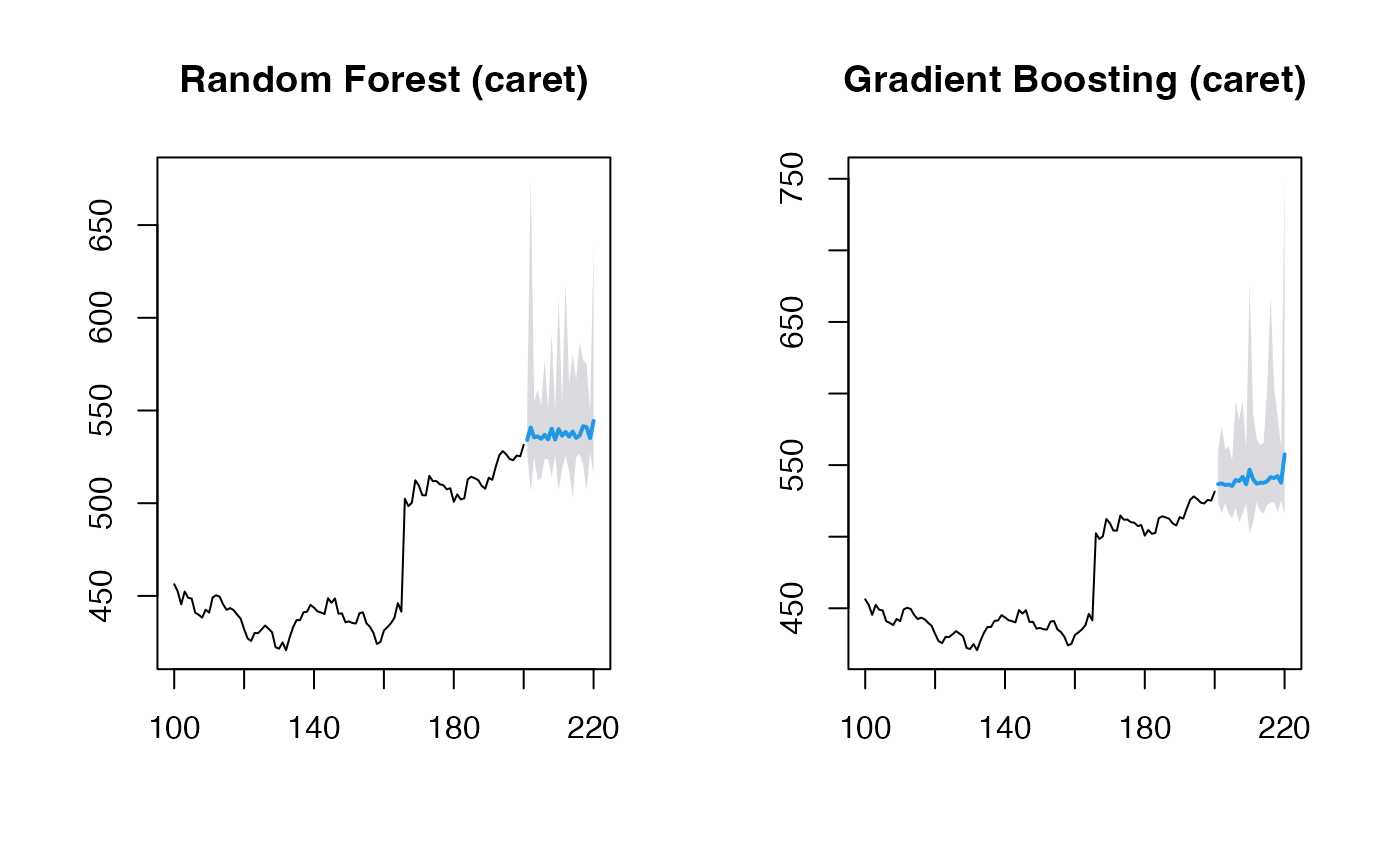
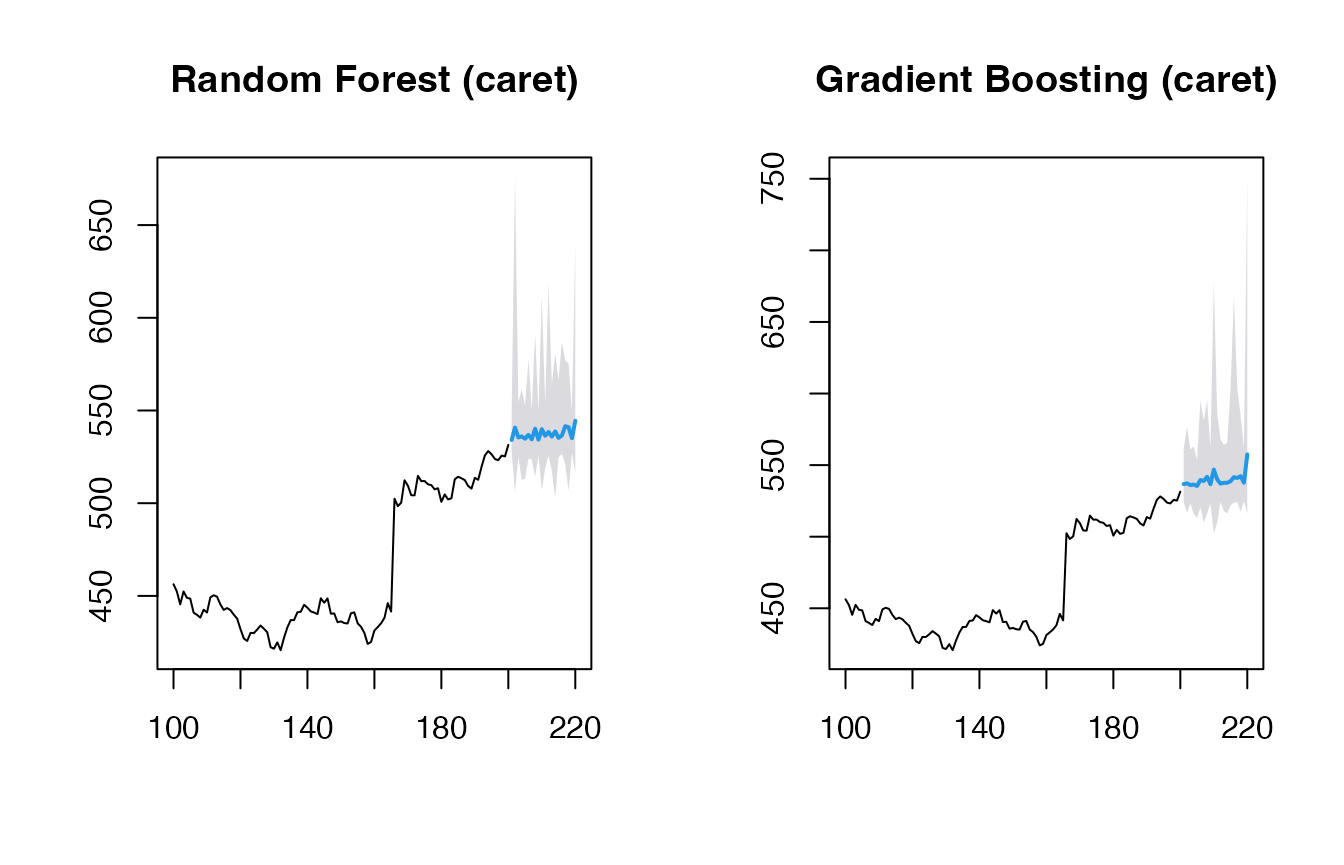
update docs for mlarch -- explicit volatility clustering

diff --git a/ahead/articles/mlarch.html b/ahead/articles/mlarch.html
@@ -382,14 +382,66 @@ how to use them:</p>
 <span><span class="co">## 218       542.2963 517.5191 584.6708</span></span>
 <span><span class="co">## 219       537.7170 524.9537 562.6072</span></span>
 <span><span class="co">## 220       557.4956 515.8869 751.6655</span></span></code></pre>
-<p>Visualizing the forecasts:</p>
 <div class="sourceCode" id="cb15"><pre class="downlit sourceCode r">
+<code class="sourceCode R"><span><span class="co"># Gradient Boosting via caret and using clustering explicitly</span></span>
+<span><span class="op">(</span><span class="va">obj_glmboost2</span> <span class="op">&lt;-</span> <span class="fu">ahead</span><span class="fu">::</span><span class="fu"><a href="../reference/mlarchf.html">mlarchf</a></span><span class="op">(</span><span class="va">y</span>, ml_method<span class="op">=</span><span class="st">"glmboost"</span>, n_clusters<span class="op">=</span><span class="fl">2</span>, h<span class="op">=</span><span class="fl">20L</span><span class="op">)</span><span class="op">)</span></span></code></pre></div>
+<pre><code><span><span class="co">##     Point Forecast    Lo 95    Hi 95</span></span>
+<span><span class="co">## 201       536.9225 523.7163 562.2036</span></span>
+<span><span class="co">## 202       536.9471 517.1959 574.5499</span></span>
+<span><span class="co">## 203       536.2966 522.8488 562.4996</span></span>
+<span><span class="co">## 204       536.0937 516.9778 561.0505</span></span>
+<span><span class="co">## 205       535.6889 512.0026 554.6241</span></span>
+<span><span class="co">## 206       539.7174 520.3196 595.8779</span></span>
+<span><span class="co">## 207       539.2603 508.8961 583.6796</span></span>
+<span><span class="co">## 208       542.2021 515.5027 597.6522</span></span>
+<span><span class="co">## 209       536.8476 522.7240 562.9377</span></span>
+<span><span class="co">## 210       547.4995 500.9878 684.2028</span></span>
+<span><span class="co">## 211       540.4050 508.7910 588.8942</span></span>
+<span><span class="co">## 212       537.2980 523.9303 569.8259</span></span>
+<span><span class="co">## 213       537.9292 517.2455 565.5631</span></span>
+<span><span class="co">## 214       537.8840 515.6418 566.9770</span></span>
+<span><span class="co">## 215       539.0610 521.4258 605.9054</span></span>
+<span><span class="co">## 216       541.9962 523.4437 673.8011</span></span>
+<span><span class="co">## 217       541.4234 523.6455 606.9050</span></span>
+<span><span class="co">## 218       542.7548 516.9205 586.9355</span></span>
+<span><span class="co">## 219       537.9815 524.6718 563.9312</span></span>
+<span><span class="co">## 220       558.6009 515.2182 761.0361</span></span></code></pre>
+<div class="sourceCode" id="cb17"><pre class="downlit sourceCode r">
+<code class="sourceCode R"><span><span class="op">(</span><span class="va">obj_glmboost3</span> <span class="op">&lt;-</span> <span class="fu">ahead</span><span class="fu">::</span><span class="fu"><a href="../reference/mlarchf.html">mlarchf</a></span><span class="op">(</span><span class="va">y</span>, ml_method<span class="op">=</span><span class="st">"glmboost"</span>, n_clusters<span class="op">=</span><span class="fl">3</span>, h<span class="op">=</span><span class="fl">20L</span><span class="op">)</span><span class="op">)</span></span></code></pre></div>
+<pre><code><span><span class="co">##     Point Forecast    Lo 95    Hi 95</span></span>
+<span><span class="co">## 201       538.3365 521.7044 570.2428</span></span>
+<span><span class="co">## 202       537.3762 516.0485 577.9330</span></span>
+<span><span class="co">## 203       537.8459 520.0787 572.4882</span></span>
+<span><span class="co">## 204       536.2631 516.4572 562.1442</span></span>
+<span><span class="co">## 205       535.7876 511.5420 555.1489</span></span>
+<span><span class="co">## 206       539.4364 520.7182 593.7978</span></span>
+<span><span class="co">## 207       539.0040 509.6248 581.9638</span></span>
+<span><span class="co">## 208       541.6988 516.2605 594.6405</span></span>
+<span><span class="co">## 209       536.6059 523.1270 561.5101</span></span>
+<span><span class="co">## 210       546.7133 502.4584 676.5969</span></span>
+<span><span class="co">## 211       539.9740 509.8880 585.9456</span></span>
+<span><span class="co">## 212       537.0145 524.2773 567.9559</span></span>
+<span><span class="co">## 213       537.6154 517.9373 563.9057</span></span>
+<span><span class="co">## 214       537.5711 516.4084 565.2712</span></span>
+<span><span class="co">## 215       538.6930 521.9114 602.2429</span></span>
+<span><span class="co">## 216       541.4844 523.8324 666.8058</span></span>
+<span><span class="co">## 217       540.9307 524.0397 602.9741</span></span>
+<span><span class="co">## 218       542.2033 517.6247 584.2236</span></span>
+<span><span class="co">## 219       537.6651 525.0132 562.3637</span></span>
+<span><span class="co">## 220       557.2735 516.0045 750.0552</span></span></code></pre>
+<p>Visualizing the forecasts:</p>
+<div class="sourceCode" id="cb19"><pre class="downlit sourceCode r">
 <code class="sourceCode R"><span><span class="fu"><a href="https://rdrr.io/r/graphics/par.html" class="external-link">par</a></span><span class="op">(</span>mfrow<span class="op">=</span><span class="fu"><a href="https://rdrr.io/r/base/c.html" class="external-link">c</a></span><span class="op">(</span><span class="fl">1</span>, <span class="fl">2</span><span class="op">)</span><span class="op">)</span></span>
 <span><span class="fu"><a href="https://rdrr.io/r/graphics/plot.default.html" class="external-link">plot</a></span><span class="op">(</span><span class="va">obj_rf</span>, main<span class="op">=</span><span class="st">"Random Forest (caret)"</span><span class="op">)</span></span>
 <span><span class="fu"><a href="https://rdrr.io/r/graphics/plot.default.html" class="external-link">plot</a></span><span class="op">(</span><span class="va">obj_glmboost</span>, main<span class="op">=</span><span class="st">"Gradient Boosting (caret)"</span><span class="op">)</span></span></code></pre></div>
-<p><img src="mlarch_files/figure-html/plot_caret-1.png" width="691.2"></p>
+<p><img src="mlarch_files/figure-html/plot_caret-1.png" width="672"></p>
+<div class="sourceCode" id="cb20"><pre class="downlit sourceCode r">
+<code class="sourceCode R"><span><span class="fu"><a href="https://rdrr.io/r/graphics/par.html" class="external-link">par</a></span><span class="op">(</span>mfrow<span class="op">=</span><span class="fu"><a href="https://rdrr.io/r/base/c.html" class="external-link">c</a></span><span class="op">(</span><span class="fl">1</span>, <span class="fl">2</span><span class="op">)</span><span class="op">)</span></span>
+<span><span class="fu"><a href="https://rdrr.io/r/graphics/plot.default.html" class="external-link">plot</a></span><span class="op">(</span><span class="va">obj_glmboost2</span>, main<span class="op">=</span><span class="st">"Gradient Boosting (caret) \n 2 clusters"</span><span class="op">)</span></span>
+<span><span class="fu"><a href="https://rdrr.io/r/graphics/plot.default.html" class="external-link">plot</a></span><span class="op">(</span><span class="va">obj_glmboost3</span>, main<span class="op">=</span><span class="st">"Gradient Boosting (caret) \n 3 clusters"</span><span class="op">)</span></span></code></pre></div>
+<p><img src="mlarch_files/figure-html/plot_caret-2.png" width="672"></p>
 <p>Looking at the simulation paths:</p>
-<div class="sourceCode" id="cb16"><pre class="downlit sourceCode r">
+<div class="sourceCode" id="cb21"><pre class="downlit sourceCode r">
 <code class="sourceCode R"><span><span class="fu"><a href="https://rdrr.io/r/graphics/par.html" class="external-link">par</a></span><span class="op">(</span>mfrow<span class="op">=</span><span class="fu"><a href="https://rdrr.io/r/base/c.html" class="external-link">c</a></span><span class="op">(</span><span class="fl">1</span>, <span class="fl">2</span><span class="op">)</span><span class="op">)</span></span>
 <span><span class="fu"><a href="https://rdrr.io/r/graphics/matplot.html" class="external-link">matplot</a></span><span class="op">(</span><span class="va">obj_rf</span><span class="op">$</span><span class="va">sims</span>, type<span class="op">=</span><span class="st">'l'</span>, main<span class="op">=</span><span class="st">"RF Simulation Paths"</span><span class="op">)</span></span>
 <span><span class="fu"><a href="https://rdrr.io/r/graphics/matplot.html" class="external-link">matplot</a></span><span class="op">(</span><span class="va">obj_glmboost</span><span class="op">$</span><span class="va">sims</span>, type<span class="op">=</span><span class="st">'l'</span>, main<span class="op">=</span><span class="st">"GBM Simulation Paths"</span><span class="op">)</span></span></code></pre></div>
@@ -400,7 +452,7 @@ how to use them:</p>
 </h2>
 <p>You can also customize both the mean forecasting model and the model
 for forecasting standardized residuals:</p>
-<div class="sourceCode" id="cb17"><pre class="downlit sourceCode r">
+<div class="sourceCode" id="cb22"><pre class="downlit sourceCode r">
 <code class="sourceCode R"><span><span class="co"># Using RW + Theta method for mean and residuals along with SVM for volatility</span></span>
 <span><span class="op">(</span><span class="va">obj_svm</span> <span class="op">&lt;-</span> <span class="fu">ahead</span><span class="fu">::</span><span class="fu"><a href="../reference/mlarchf.html">mlarchf</a></span><span class="op">(</span><span class="va">y</span>, fit_func <span class="op">=</span> <span class="fu">e1071</span><span class="fu">::</span><span class="va"><a href="https://rdrr.io/pkg/e1071/man/svm.html" class="external-link">svm</a></span>, </span>
 <span>                     predict_func <span class="op">=</span> <span class="va">predict</span>, h<span class="op">=</span><span class="fl">20L</span>, </span>
@@ -427,7 +479,7 @@ for forecasting standardized residuals:</p>
 <span><span class="co">## 218       543.2392 516.3275 589.2513</span></span>
 <span><span class="co">## 219       538.2161 524.4095 565.0870</span></span>
 <span><span class="co">## 220       559.7157 514.5775 769.9032</span></span></code></pre>
-<div class="sourceCode" id="cb19"><pre class="downlit sourceCode r">
+<div class="sourceCode" id="cb24"><pre class="downlit sourceCode r">
 <code class="sourceCode R"><span><span class="co"># Using Theta + Theta method for mean and residuals along with GLMNET for volatility</span></span>
 <span><span class="op">(</span><span class="va">obj_glmnet</span> <span class="op">&lt;-</span> <span class="fu">ahead</span><span class="fu">::</span><span class="fu"><a href="../reference/mlarchf.html">mlarchf</a></span><span class="op">(</span><span class="va">y</span>, fit_func <span class="op">=</span> <span class="fu">glmnet</span><span class="fu">::</span><span class="va"><a href="https://glmnet.stanford.edu/reference/cv.glmnet.html" class="external-link">cv.glmnet</a></span>, </span>
 <span>                     predict_func <span class="op">=</span> <span class="va">predict</span>, h<span class="op">=</span><span class="fl">20L</span>, </span>
@@ -454,16 +506,16 @@ for forecasting standardized residuals:</p>
 <span><span class="co">## 218       549.8988 532.7408 588.1457</span></span>
 <span><span class="co">## 219       546.3406 535.2334 568.0789</span></span>
 <span><span class="co">## 220       564.5126 529.8817 740.9622</span></span></code></pre>
-<div class="sourceCode" id="cb21"><pre class="downlit sourceCode r">
+<div class="sourceCode" id="cb26"><pre class="downlit sourceCode r">
 <code class="sourceCode R"><span><span class="fu"><a href="https://rdrr.io/r/graphics/plot.default.html" class="external-link">plot</a></span><span class="op">(</span><span class="va">obj_svm</span>, main<span class="op">=</span><span class="st">"SVM with RW + Theta"</span><span class="op">)</span></span></code></pre></div>
 <p><img src="mlarch_files/figure-html/plot_custom-1.png" width="691.2"></p>
-<div class="sourceCode" id="cb22"><pre class="downlit sourceCode r">
+<div class="sourceCode" id="cb27"><pre class="downlit sourceCode r">
 <code class="sourceCode R"><span><span class="fu"><a href="https://rdrr.io/r/graphics/plot.default.html" class="external-link">plot</a></span><span class="op">(</span><span class="va">obj_glmnet</span>, main<span class="op">=</span><span class="st">"Elastic Net with Theta + Theta"</span><span class="op">)</span></span></code></pre></div>
 <p><img src="mlarch_files/figure-html/plot_custom-2.png" width="691.2"></p>
 <p>When using non-ARIMA models for the mean forecast, it’s important to
 check if the residuals of the mean forecasting model are centered and
 stationary:</p>
-<div class="sourceCode" id="cb23"><pre class="downlit sourceCode r">
+<div class="sourceCode" id="cb28"><pre class="downlit sourceCode r">
 <code class="sourceCode R"><span><span class="co"># Diagnostic tests for residuals</span></span>
 <span><span class="fu"><a href="https://rdrr.io/r/base/print.html" class="external-link">print</a></span><span class="op">(</span><span class="va">obj_svm</span><span class="op">$</span><span class="va">resids_t_test</span><span class="op">)</span></span></code></pre></div>
 <pre><code><span><span class="co">## </span></span>
@@ -477,14 +529,14 @@ stationary:</p>
 <span><span class="co">## sample estimates:</span></span>
 <span><span class="co">## mean of x </span></span>
 <span><span class="co">## 0.7517111</span></span></code></pre>
-<div class="sourceCode" id="cb25"><pre class="downlit sourceCode r">
+<div class="sourceCode" id="cb30"><pre class="downlit sourceCode r">
 <code class="sourceCode R"><span><span class="fu"><a href="https://rdrr.io/r/base/print.html" class="external-link">print</a></span><span class="op">(</span><span class="va">obj_svm</span><span class="op">$</span><span class="va">resids_kpss_test</span><span class="op">)</span></span></code></pre></div>
 <pre><code><span><span class="co">## </span></span>
 <span><span class="co">##  KPSS Test for Level Stationarity</span></span>
 <span><span class="co">## </span></span>
 <span><span class="co">## data:  resids</span></span>
-<span><span class="co">## KPSS Level = 7.5764e-76, Truncation lag parameter = 4, p-value = 0.1</span></span></code></pre>
-<div class="sourceCode" id="cb27"><pre class="downlit sourceCode r">
+<span><span class="co">## KPSS Level = 0.25272, Truncation lag parameter = 4, p-value = 0.1</span></span></code></pre>
+<div class="sourceCode" id="cb32"><pre class="downlit sourceCode r">
 <code class="sourceCode R"><span><span class="fu"><a href="https://rdrr.io/r/base/print.html" class="external-link">print</a></span><span class="op">(</span><span class="va">obj_glmnet</span><span class="op">$</span><span class="va">resids_t_test</span><span class="op">)</span></span></code></pre></div>
 <pre><code><span><span class="co">## </span></span>
 <span><span class="co">##  One Sample t-test</span></span>
@@ -497,7 +549,7 @@ stationary:</p>
 <span><span class="co">## sample estimates:</span></span>
 <span><span class="co">## mean of x </span></span>
 <span><span class="co">## 0.8026479</span></span></code></pre>
-<div class="sourceCode" id="cb29"><pre class="downlit sourceCode r">
+<div class="sourceCode" id="cb34"><pre class="downlit sourceCode r">
 <code class="sourceCode R"><span><span class="fu"><a href="https://rdrr.io/r/base/print.html" class="external-link">print</a></span><span class="op">(</span><span class="va">obj_glmnet</span><span class="op">$</span><span class="va">resids_kpss_test</span><span class="op">)</span></span></code></pre></div>
 <pre><code><span><span class="co">## </span></span>
 <span><span class="co">##  KPSS Test for Level Stationarity</span></span>

diff --git a/ahead/articles/comb_OLS2.html b/ahead/articles/comb_OLS2.html
@@ -249,7 +249,7 @@
 <span><span class="va">obj</span> <span class="op">&lt;-</span> <span class="fu">ahead</span><span class="fu">::</span><span class="fu"><a href="../reference/comb_OLS.html">comb_OLS</a></span><span class="op">(</span><span class="va">data</span>, custom_error<span class="op">=</span><span class="va">custom_error</span><span class="op">)</span></span>
 <span><span class="fu"><a href="https://rdrr.io/r/base/print.html" class="external-link">print</a></span><span class="op">(</span><span class="fu"><a href="https://rdrr.io/r/base/proc.time.html" class="external-link">proc.time</a></span><span class="op">(</span><span class="op">)</span><span class="op">[</span><span class="fl">3</span><span class="op">]</span> <span class="op">-</span> <span class="va">start</span><span class="op">)</span></span></code></pre></div>
 <pre><code><span><span class="co">## elapsed </span></span>
-<span><span class="co">##   0.006</span></span></code></pre>
+<span><span class="co">##    0.03</span></span></code></pre>
 <div class="sourceCode" id="cb31"><pre class="downlit sourceCode r">
 <code class="sourceCode R"><span><span class="fu"><a href="https://rdrr.io/r/base/print.html" class="external-link">print</a></span><span class="op">(</span><span class="va">obj</span><span class="op">$</span><span class="va">Accuracy_Test</span><span class="op">)</span></span></code></pre></div>
 <pre><code><span><span class="co">##                ME     RMSE      MAE      MPE     MAPE Custom Error</span></span>
@@ -270,7 +270,7 @@
 <span><span class="va">obj</span> <span class="op">&lt;-</span> <span class="fu">ahead</span><span class="fu">::</span><span class="fu"><a href="../reference/comb_Ridge.html">comb_Ridge</a></span><span class="op">(</span><span class="va">data</span>, custom_error<span class="op">=</span><span class="va">custom_error</span><span class="op">)</span></span>
 <span><span class="fu"><a href="https://rdrr.io/r/base/print.html" class="external-link">print</a></span><span class="op">(</span><span class="fu"><a href="https://rdrr.io/r/base/proc.time.html" class="external-link">proc.time</a></span><span class="op">(</span><span class="op">)</span><span class="op">[</span><span class="fl">3</span><span class="op">]</span> <span class="op">-</span> <span class="va">start</span><span class="op">)</span></span></code></pre></div>
 <pre><code><span><span class="co">## elapsed </span></span>
-<span><span class="co">##   0.005</span></span></code></pre>
+<span><span class="co">##   0.048</span></span></code></pre>
 <div class="sourceCode" id="cb39"><pre class="downlit sourceCode r">
 <code class="sourceCode R"><span><span class="fu"><a href="https://rdrr.io/r/base/print.html" class="external-link">print</a></span><span class="op">(</span><span class="fu"><a href="https://rdrr.io/r/base/class.html" class="external-link">class</a></span><span class="op">(</span><span class="va">obj</span><span class="op">)</span><span class="op">)</span></span></code></pre></div>
 <pre><code><span><span class="co">## [1] "foreccomb_res" "comb_Ridge"</span></span></code></pre>

diff --git a/ahead/articles/comb_OLS.html b/ahead/articles/comb_OLS.html
@@ -194,7 +194,7 @@
 <span><span class="va">obj</span> <span class="op">&lt;-</span> <span class="fu">ahead</span><span class="fu">::</span><span class="fu"><a href="../reference/comb_OLS.html">comb_OLS</a></span><span class="op">(</span><span class="va">data</span><span class="op">)</span></span>
 <span><span class="fu"><a href="https://rdrr.io/r/base/print.html" class="external-link">print</a></span><span class="op">(</span><span class="fu"><a href="https://rdrr.io/r/base/proc.time.html" class="external-link">proc.time</a></span><span class="op">(</span><span class="op">)</span><span class="op">[</span><span class="fl">3</span><span class="op">]</span> <span class="op">-</span> <span class="va">start</span><span class="op">)</span></span></code></pre></div>
 <pre><code><span><span class="co">## elapsed </span></span>
-<span><span class="co">##   0.007</span></span></code></pre>
+<span><span class="co">##    0.01</span></span></code></pre>
 <div class="sourceCode" id="cb19"><pre class="downlit sourceCode r">
 <code class="sourceCode R"><span><span class="fu"><a href="https://rdrr.io/r/base/print.html" class="external-link">print</a></span><span class="op">(</span><span class="fu"><a href="https://rdrr.io/r/base/class.html" class="external-link">class</a></span><span class="op">(</span><span class="va">obj</span><span class="op">)</span><span class="op">)</span></span></code></pre></div>
 <pre><code><span><span class="co">## [1] "foreccomb_res" "comb_OLS"</span></span></code></pre>
@@ -220,7 +220,7 @@
 <span><span class="va">obj</span> <span class="op">&lt;-</span> <span class="fu">ahead</span><span class="fu">::</span><span class="fu"><a href="../reference/comb_Ridge.html">comb_Ridge</a></span><span class="op">(</span><span class="va">data</span><span class="op">)</span></span>
 <span><span class="fu"><a href="https://rdrr.io/r/base/print.html" class="external-link">print</a></span><span class="op">(</span><span class="fu"><a href="https://rdrr.io/r/base/proc.time.html" class="external-link">proc.time</a></span><span class="op">(</span><span class="op">)</span><span class="op">[</span><span class="fl">3</span><span class="op">]</span> <span class="op">-</span> <span class="va">start</span><span class="op">)</span></span></code></pre></div>
 <pre><code><span><span class="co">## elapsed </span></span>
-<span><span class="co">##   0.004</span></span></code></pre>
+<span><span class="co">##   0.005</span></span></code></pre>
 <div class="sourceCode" id="cb30"><pre class="downlit sourceCode r">
 <code class="sourceCode R"><span><span class="fu"><a href="https://rdrr.io/r/base/print.html" class="external-link">print</a></span><span class="op">(</span><span class="va">obj</span><span class="op">$</span><span class="va">Weights</span><span class="op">)</span></span></code></pre></div>
 <pre><code><span><span class="co">## [1]    95.81502  -582.80574   685.98452 -2745.54330  5530.43579</span></span></code></pre>

diff --git a/ahead/reference/comb_OLS.html b/ahead/reference/comb_OLS.html
@@ -480,7 +480,7 @@ This issue is addressed by the <code><a href="https://rdrr.io/pkg/ForecastComb/m
 <span class="r-out co"><span class="r-pr">#&gt;</span>     coef &lt;- c(object$Intercept, object$Weights)</span>
 <span class="r-out co"><span class="r-pr">#&gt;</span>     return(drop(cbind(1, newpreds) %*% coef))</span>
 <span class="r-out co"><span class="r-pr">#&gt;</span> }</span>
-<span class="r-out co"><span class="r-pr">#&gt;</span> &lt;bytecode: 0x7f99f7cdb9a8&gt;</span>
+<span class="r-out co"><span class="r-pr">#&gt;</span> &lt;bytecode: 0x7f94aafe95d8&gt;</span>
 <span class="r-out co"><span class="r-pr">#&gt;</span> &lt;environment: namespace:ahead&gt;</span>
 <span class="r-out co"><span class="r-pr">#&gt;</span> </span>
 <span class="r-out co"><span class="r-pr">#&gt;</span> $Intercept</span>

diff --git a/ahead/reference/comb_Ridge.html b/ahead/reference/comb_Ridge.html
@@ -468,7 +468,7 @@
 <span class="r-out co"><span class="r-pr">#&gt;</span> {</span>
 <span class="r-out co"><span class="r-pr">#&gt;</span>     return(predict(object$lin_model, newpreds))</span>
 <span class="r-out co"><span class="r-pr">#&gt;</span> }</span>
-<span class="r-out co"><span class="r-pr">#&gt;</span> &lt;bytecode: 0x7f99f5528ae8&gt;</span>
+<span class="r-out co"><span class="r-pr">#&gt;</span> &lt;bytecode: 0x7f9491974508&gt;</span>
 <span class="r-out co"><span class="r-pr">#&gt;</span> &lt;environment: namespace:ahead&gt;</span>
 <span class="r-out co"><span class="r-pr">#&gt;</span> </span>
 <span class="r-out co"><span class="r-pr">#&gt;</span> $Intercept</span>
